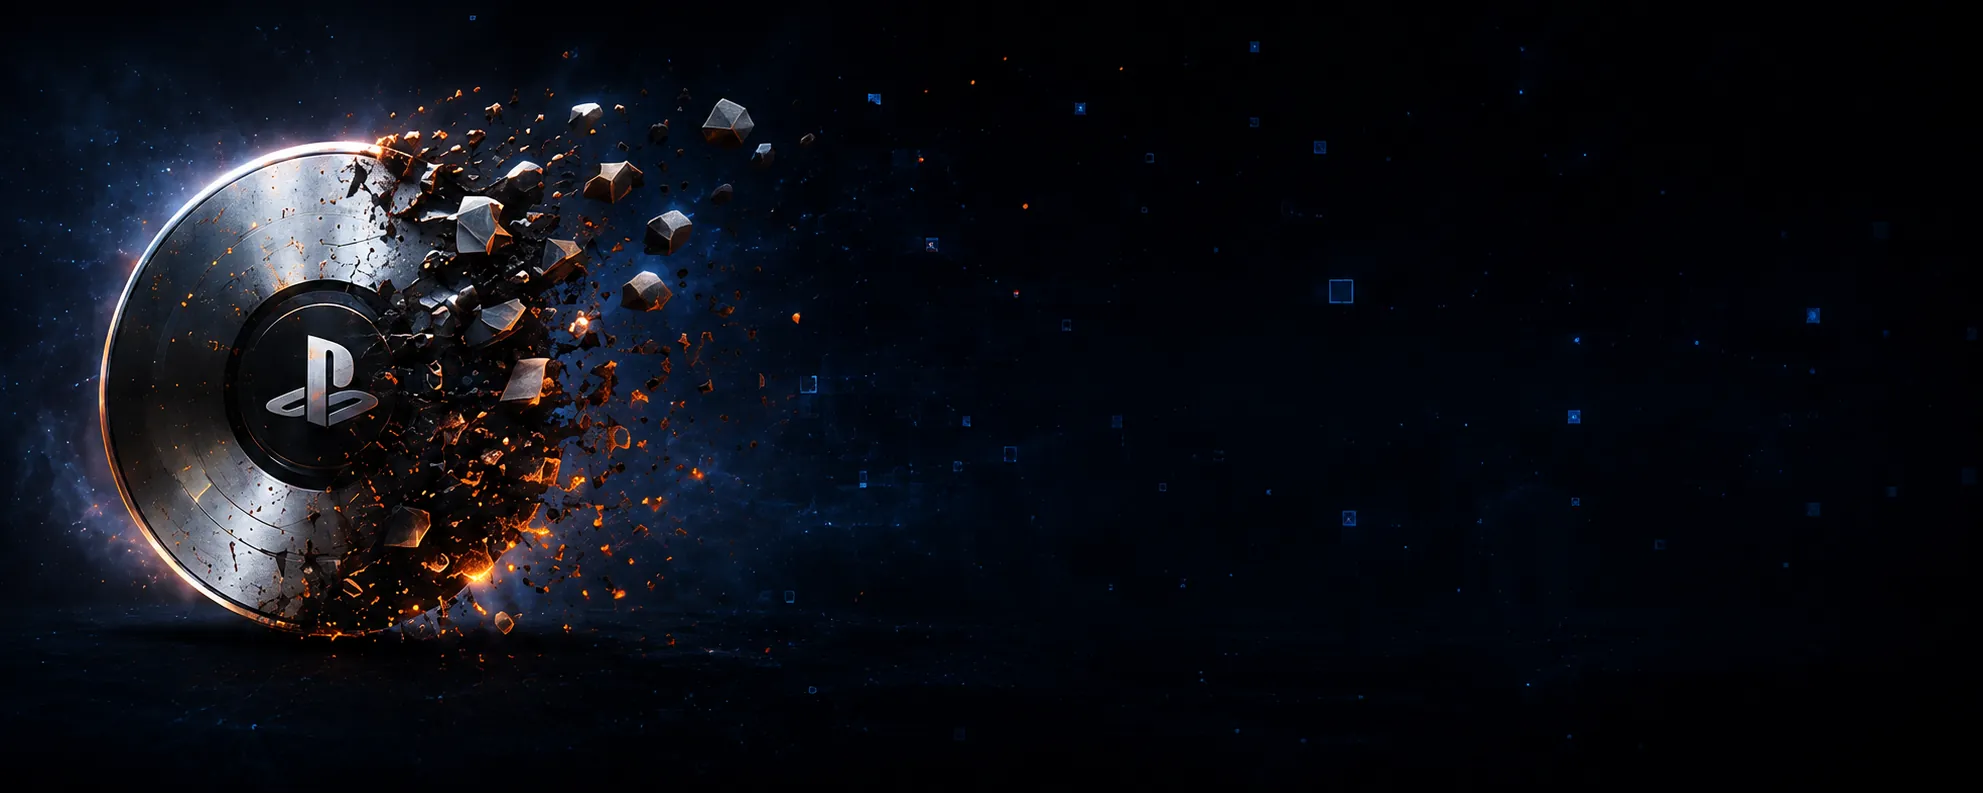
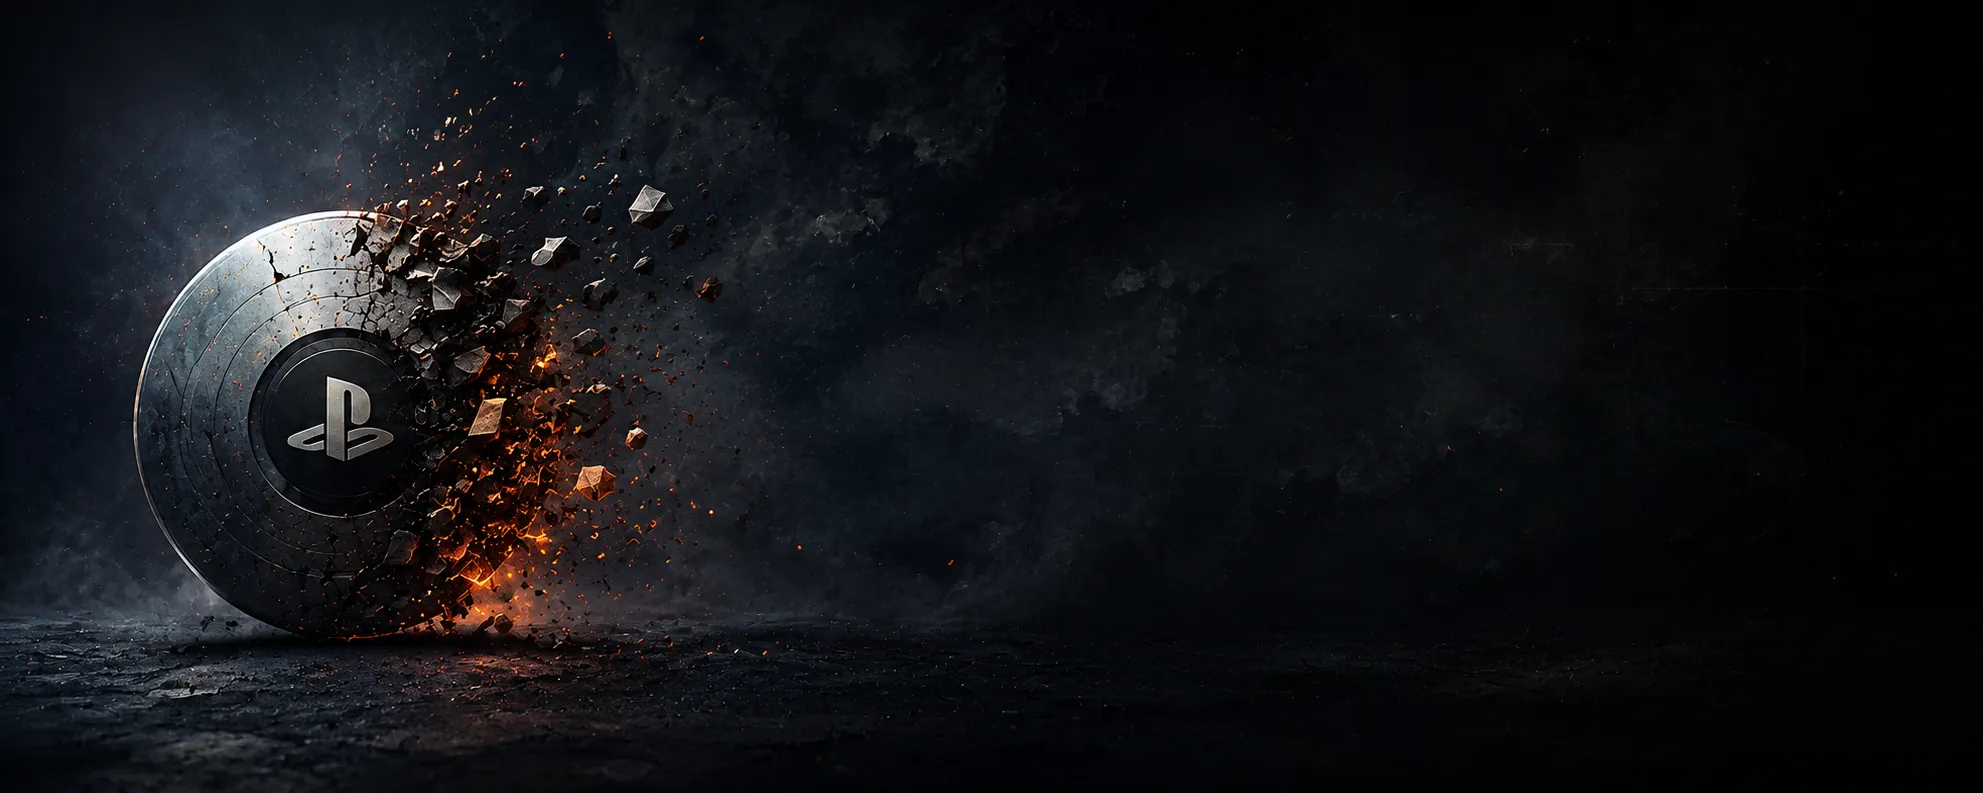
style(last-disc): new hero art, and the closing block finishes the sentence
Both images in, both about a tenth of what they arrived as: the hero at
90 KB, the closing block at 38 KB.

The closing art is a boy holding a disc up against a sunset, and he is
on the right of the frame - so the words take the left and the picture
finishes the sentence rather than sitting behind it. The block gets the
share row the mockup had: Facebook, X and Reddit open in a window so a
reader who shares is still looking at the campaign afterwards, and the
fourth copies the link. Their marks are drawn rather than borrowed from
an icon set, because a generic glyph where a brand belongs reads as
something nobody finished.

diff --git a/frontend/app/last-disc/page.tsx b/frontend/app/last-disc/page.tsx
@@ -5,6 +5,7 @@ import {
 } from "lucide-react";
 import { getServerApiUrl } from "@/lib/api";
 import LastDiscClient from "./LastDiscClient";
+import ShareRow from "./ShareRow";
 
 export const revalidate = 900;
 
@@ -234,24 +235,47 @@ export default async function LastDiscPage() {
                 </div>
             </section>
 
-            {/* ══ the closing line ══ */}
+            {/* ══ the closing line ══
+                The art is a boy holding a disc up against a sunset, and he is
+                on the right of the frame — so the words take the left and the
+                image finishes the sentence. */}
             <section className="container-page mt-4">
-                <div className="relative overflow-hidden rounded-[var(--radius-panel)] border border-[color-mix(in_srgb,var(--accent)_25%,transparent)] bg-[var(--surface-1)] p-7 lg:p-9">
-                    <span
-                        aria-hidden
-                        className="absolute inset-0"
-                        style={{ background: "radial-gradient(70% 140% at 88% 50%, color-mix(in srgb, var(--accent) 16%, transparent), transparent 60%)" }}
-                    />
-                    <div className="relative z-10 max-w-[560px]">
-                        <p className="font-display text-[20px] lg:text-[24px] font-black text-white leading-tight">
-                            This is our moment.
-                            <br />
-                            Our games. Our choice. Our future.
-                        </p>
-                        <p className="mt-3 text-[12.5px] leading-relaxed text-white/45">
-                            The more voices we have, the stronger the message. Let&apos;s show Sony that physical games
-                            still have a place in the PlayStation future.
-                        </p>
+                <div
+                    className="relative overflow-hidden rounded-[var(--radius-panel)] border border-white/[0.09] min-h-[300px] lg:min-h-[280px] flex items-center"
+                    style={{
+                        backgroundImage:
+                            "linear-gradient(90deg, rgba(5,7,10,0.94) 0%, rgba(5,7,10,0.86) 34%, rgba(5,7,10,0.42) 56%, transparent 74%), url('/images/last-disc/last-disc-cta.webp')",
+                        backgroundSize: "cover, cover",
+                        backgroundPosition: "center, center right",
+                        backgroundRepeat: "no-repeat, no-repeat",
+                        backgroundColor: "#05070A",
+                    }}
+                >
+                    <div className="relative z-10 w-full p-7 lg:p-9 grid grid-cols-1 lg:grid-cols-[minmax(0,1fr)_auto] gap-8 items-center">
+                        <div className="max-w-[420px]">
+                            <p className="font-display text-[20px] lg:text-[24px] font-black text-white leading-tight">
+                                This is our moment.
+                                <br />
+                                Our games. Our choice. Our future.
+                            </p>
+                            <p className="mt-3.5 text-[12.5px] leading-relaxed text-white/50">
+                                The more voices we have, the stronger our message. Let&apos;s show Sony that physical
+                                games still have a powerful place in the PlayStation future.
+                            </p>
+                        </div>
+
+                        <div className="lg:pr-2">
+                            <a
+                                href="#sign"
+                                className="btn-command inline-flex items-center gap-2 h-12 px-7 bg-[var(--accent)] hover:brightness-110 font-display text-[12px] font-black uppercase tracking-[0.14em] text-white transition-[filter]"
+                            >
+                                <PenLine className="w-4 h-4" /> Add your voice
+                            </a>
+
+                            <div className="mt-5">
+                                <ShareRow />
+                            </div>
+                        </div>
                     </div>
                 </div>
             </section>

diff --git a/frontend/app/last-disc/ShareRow.tsx b/frontend/app/last-disc/ShareRow.tsx
@@ -1,0 +1,82 @@
+"use client";
+
+import { useState } from "react";
+import toast from "react-hot-toast";
+import { Link2, Check } from "lucide-react";
+
+const URL = "https://techplay.gg/last-disc";
+const TEXT = "Sony is ending physical PlayStation discs in 2028. Digital is only bad when it's the only option — sign the open letter.";
+
+/**
+ * Share targets, opened in a window rather than navigated to: a reader who
+ * shares should still be looking at the campaign afterwards.
+ *
+ * The marks are drawn here rather than pulled from an icon set — Facebook, X
+ * and Reddit are brands, and a generic glyph in their place reads as a
+ * placeholder nobody finished.
+ */
+const TARGETS = [
+    {
+        name: "Facebook",
+        href: `https://www.facebook.com/sharer/sharer.php?u=${encodeURIComponent(URL)}`,
+        path: "M24 12.07C24 5.4 18.63 0 12 0S0 5.4 0 12.07C0 18.1 4.39 23.1 10.13 24v-8.44H7.08v-3.49h3.05V9.41c0-3.02 1.79-4.69 4.53-4.69 1.31 0 2.68.24 2.68.24v2.96h-1.51c-1.49 0-1.96.93-1.96 1.89v2.26h3.33l-.53 3.49h-2.8V24C19.61 23.1 24 18.1 24 12.07z",
+    },
+    {
+        name: "X",
+        href: `https://twitter.com/intent/tweet?url=${encodeURIComponent(URL)}&text=${encodeURIComponent(TEXT)}`,
+        path: "M18.9 1.15h3.68l-8.04 9.19L24 22.85h-7.4l-5.8-7.58-6.64 7.58H.47l8.6-9.83L0 1.15h7.59l5.24 6.93 6.07-6.93zm-1.29 19.5h2.04L6.49 3.24H4.3l13.31 17.41z",
+    },
+    {
+        name: "Reddit",
+        href: `https://www.reddit.com/submit?url=${encodeURIComponent(URL)}&title=${encodeURIComponent("The Last Disc — an open letter to Sony on physical games")}`,
+        path: "M24 11.78a2.6 2.6 0 0 0-4.4-1.87 12.8 12.8 0 0 0-6.98-2.23l1.19-5.6 3.89.83a1.86 1.86 0 1 0 .2-1.24L13.5.72a.62.62 0 0 0-.74.48l-1.33 6.27a12.8 12.8 0 0 0-7.06 2.23 2.6 2.6 0 1 0-2.87 4.26 5.1 5.1 0 0 0-.06.79c0 4.02 4.69 7.29 10.47 7.29s10.47-3.27 10.47-7.29c0-.27-.02-.53-.06-.79A2.6 2.6 0 0 0 24 11.78zM6.2 13.64a1.86 1.86 0 1 1 3.72 0 1.86 1.86 0 0 1-3.72 0zm10.4 4.93c-1.28 1.28-3.72 1.37-4.44 1.37-.72 0-3.17-.1-4.44-1.37a.48.48 0 0 1 .68-.68c.8.8 2.53 1.09 3.76 1.09 1.24 0 2.96-.29 3.77-1.09a.48.48 0 1 1 .68.68zm-.34-3.07a1.86 1.86 0 1 1 0-3.72 1.86 1.86 0 0 1 0 3.72z",
+    },
+];
+
+export default function ShareRow() {
+    const [copied, setCopied] = useState(false);
+
+    const copy = async () => {
+        try {
+            await navigator.clipboard.writeText(URL);
+            setCopied(true);
+            toast.success("Link copied.");
+            setTimeout(() => setCopied(false), 2000);
+        } catch {
+            toast.error("Couldn't copy the link.");
+        }
+    };
+
+    const circle =
+        "w-10 h-10 rounded-full bg-white/[0.07] hover:bg-white/[0.16] border border-white/[0.12] flex items-center justify-center text-white/70 hover:text-white transition-colors";
+
+    return (
+        <div>
+            <p className="font-display text-[9.5px] font-bold uppercase tracking-[0.16em] text-white/40">
+                Share this campaign
+            </p>
+
+            <div className="mt-2.5 flex items-center gap-2.5">
+                {TARGETS.map(({ name, href, path }) => (
+                    <a
+                        key={name}
+                        href={href}
+                        target="_blank"
+                        rel="noopener noreferrer"
+                        aria-label={`Share on ${name}`}
+                        title={`Share on ${name}`}
+                        className={circle}
+                    >
+                        <svg viewBox="0 0 24 24" className="w-4 h-4" fill="currentColor" aria-hidden>
+                            <path d={path} />
+                        </svg>
+                    </a>
+                ))}
+
+                <button onClick={copy} aria-label="Copy link" title="Copy link" className={circle}>
+                    {copied ? <Check className="w-4 h-4 text-emerald-400" /> : <Link2 className="w-4 h-4" />}
+                </button>
+            </div>
+        </div>
+    );
+}
